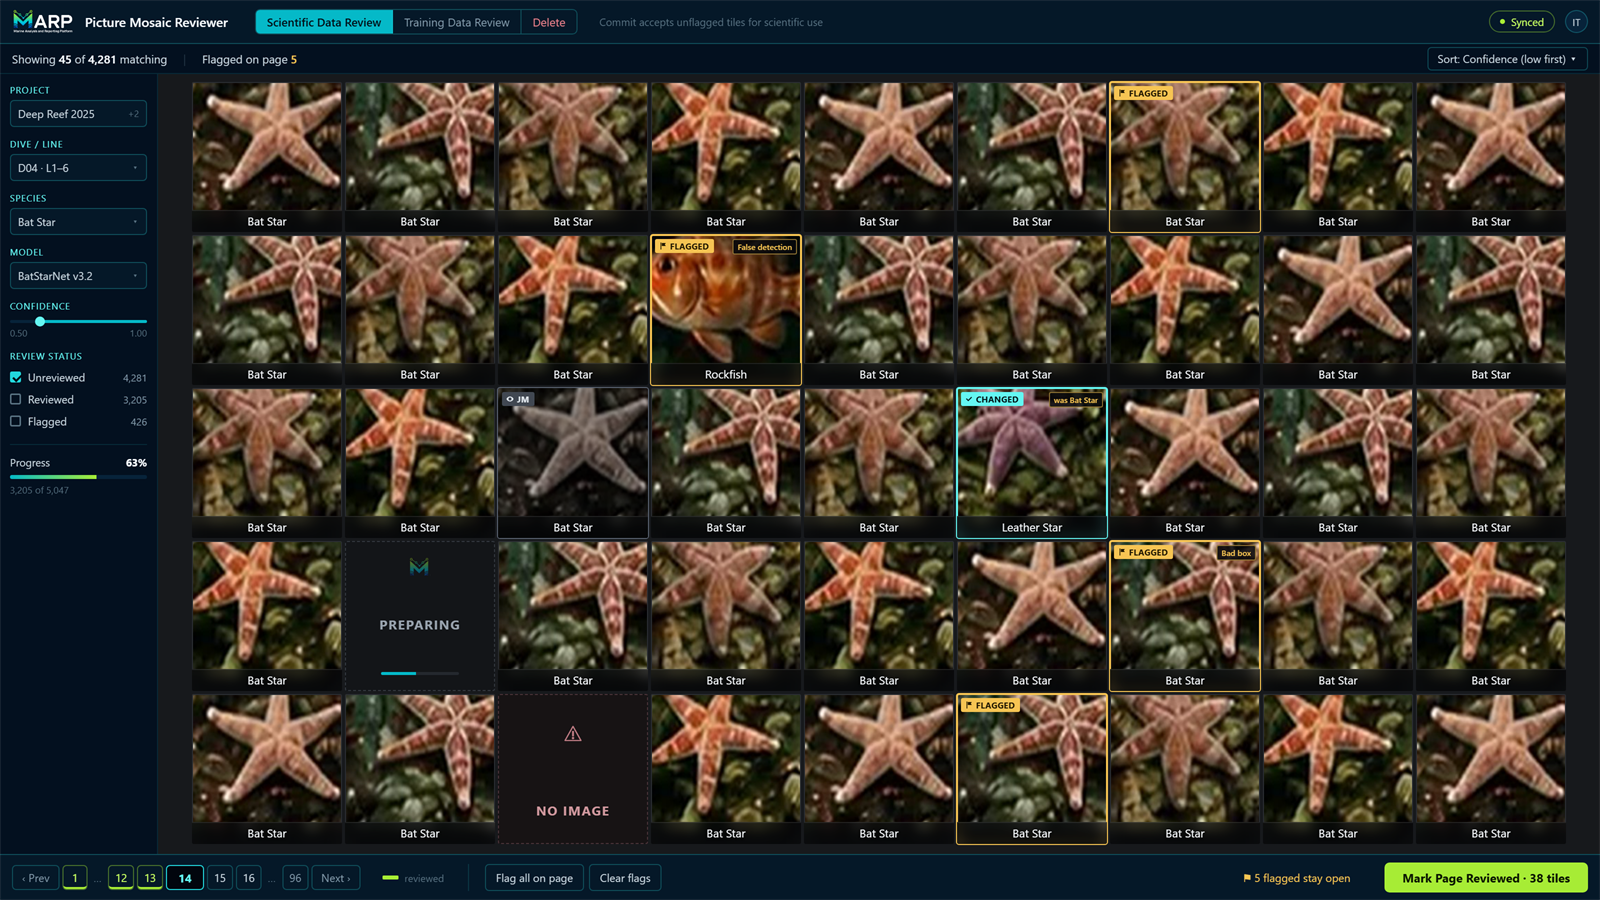
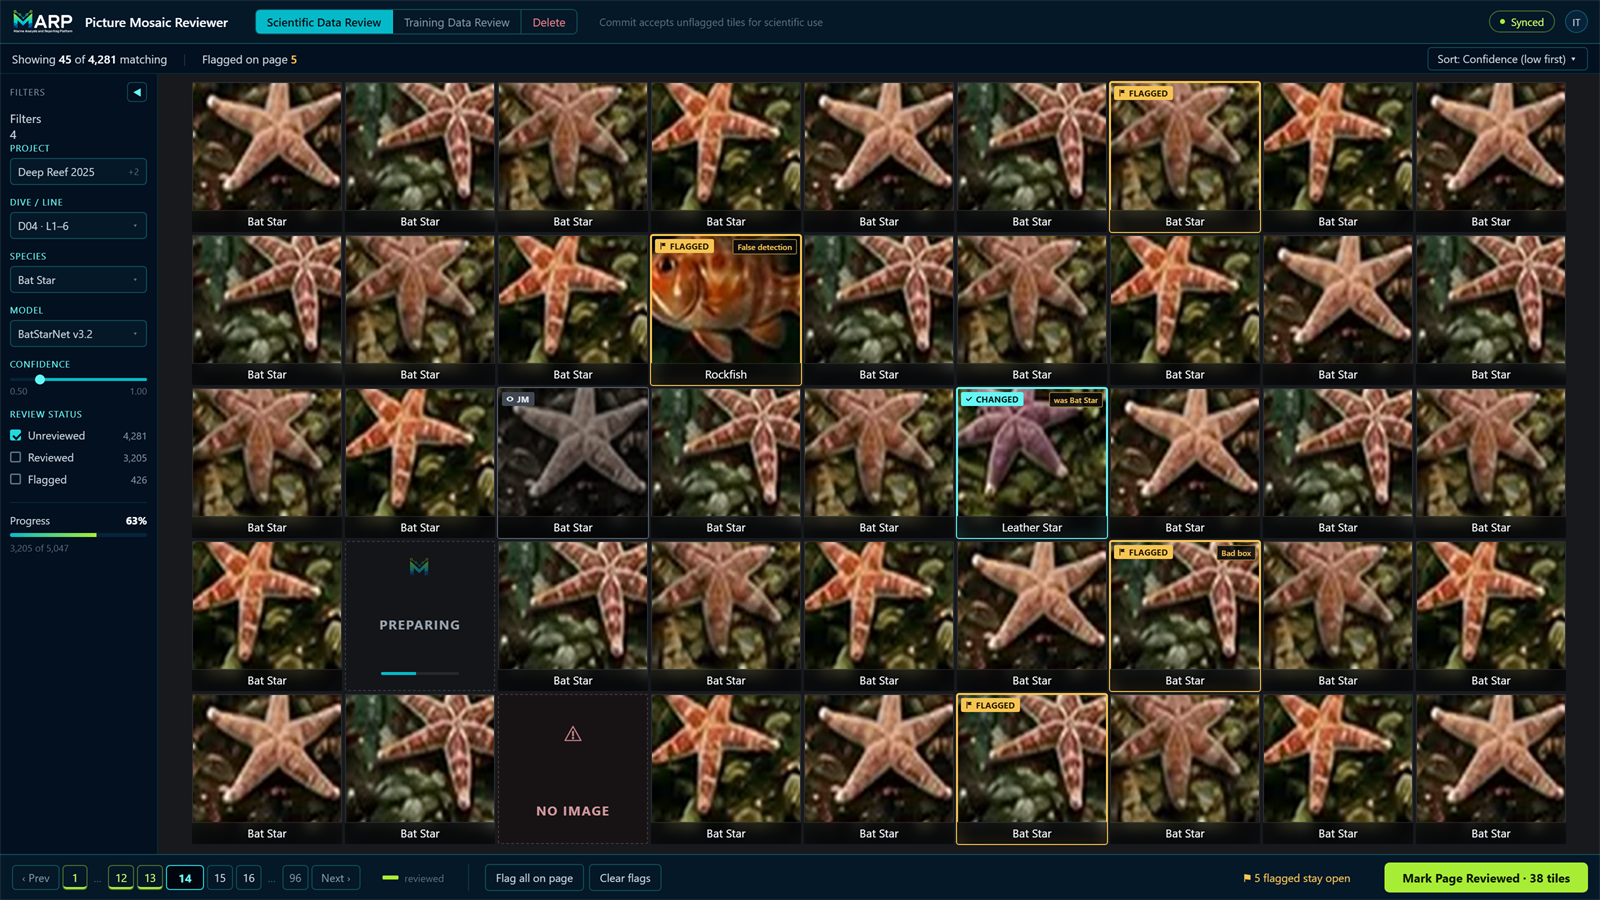
Add collapsible filter rail to mosaic mockup
- Rail collapses to a strip, gaining one tile column
- Active filter count stays visible while collapsed
- New filters-collapsed.png screenshot

Refs #68

Changed region(s): [[0.0, 0.0933, 0.0938, 0.6222], [0.0625, 0.0933, 0.0938, 0.1244]]

diff --git a/docs/design/mosaic-reviewer/html/scientific-review.html b/docs/design/mosaic-reviewer/html/scientific-review.html
@@ -41,6 +41,23 @@ header img{height:26px;width:auto}
 
 .body{display:grid;grid-template-columns:158px 1fr;min-height:0}
 aside{background:var(--navy-900);border-right:1px solid rgba(42,214,220,.13);padding:10px;overflow:hidden}
+.railhead{display:flex;align-items:center;justify-content:space-between;margin:-2px 0 8px}
+.railhead .t{font-size:9px;letter-spacing:.09em;text-transform:uppercase;color:var(--muted)}
+.railbtn{width:20px;height:20px;display:grid;place-items:center;border:1px solid var(--border);
+         border-radius:4px;color:var(--cyan-300);font-size:10px;line-height:1;cursor:pointer}
+
+/* Collapsed: the rail becomes a narrow strip. Active filters stay visible as a
+   count, so a reviewer can never scan a filtered mosaic believing it unfiltered. */
+body.rail-collapsed .body{grid-template-columns:34px 1fr}
+body.rail-collapsed aside{padding:8px 0;display:flex;flex-direction:column;align-items:center;gap:9px}
+body.rail-collapsed .railbody{display:none}
+body.rail-collapsed .railhead{display:block;margin:0}
+body.rail-collapsed .railhead .t{display:none}
+body.rail-collapsed .vlabel{writing-mode:vertical-rl;font-size:9px;letter-spacing:.11em;
+       text-transform:uppercase;color:var(--muted)}
+body.rail-collapsed .fcount{min-width:19px;height:19px;display:grid;place-items:center;
+       border-radius:10px;background:var(--cyan-500);color:#02121a;font-size:10px;font-weight:700}
+body.rail-collapsed .grid{grid-template-columns:repeat(10,150px)}
 .lbl{font-size:9px;letter-spacing:.08em;text-transform:uppercase;color:var(--cyan-300);margin:11px 0 4px}
 .lbl.first{margin-top:0}
 .sel{display:flex;align-items:center;justify-content:space-between;gap:4px;background:var(--navy-850);
@@ -138,13 +155,20 @@ input.pg{width:38px;padding:0;background:var(--navy-1000);border:1px solid var(-
   </header>
 
   <div class="sub">
-    <div>Showing <b>45</b> of <b>4,281</b> matching</div><div class="sep">|</div>
+    <div>Showing <b id="shown">45</b> of <b>4,281</b> matching</div><div class="sep">|</div>
     <div>Flagged on page <b style="color:#f6c453">5</b></div>
     <div class="sortbox">Sort: Confidence (low first) &#9662;</div>
   </div>
 
   <div class="body">
     <aside>
+      <div class="railhead">
+        <span class="t">Filters</span>
+        <span class="railbtn" id="railbtn" title="Collapse filters">&#9664;</span>
+      </div>
+      <div class="vlabel">Filters</div>
+      <div class="fcount">4</div>
+      <div class="railbody">
       <div class="lbl first">Project</div>
       <div class="sel"><span>Deep Reef 2025</span><span>+2</span></div>
       <div class="lbl">Dive / Line</div>
@@ -166,6 +190,7 @@ input.pg{width:38px;padding:0;background:var(--navy-1000);border:1px solid var(-
         <div class="bar"><i></i></div>
         <div class="small">3,205 of 5,047</div>
       </div>
+      </div>
     </aside>
 
     <main><div class="grid" id="g"></div></main>
@@ -179,7 +204,7 @@ input.pg{width:38px;padding:0;background:var(--navy-1000);border:1px solid var(-
       <div class="btn">Clear flags</div>
     </div>
     <div class="count">&#9873; 5 flagged stay open</div>
-    <button class="commit">Mark Page Reviewed &middot; 38 tiles</button>
+    <button class="commit" id="commit">Mark Page Reviewed &middot; 38 tiles</button>
   </footer>
 </div>
 
@@ -198,8 +223,13 @@ var special = {
   38:{na:1},
   41:{n:'Bat Star', st:'flag', badge:'FLAGGED'}
 };
+/* ?rail=collapsed renders the collapsed state, which gains a whole column */
+var COLLAPSED = /rail=collapsed/.test(location.search);
+if(COLLAPSED) document.body.className = 'rail-collapsed';
+var TILES = COLLAPSED ? 50 : 45;
+
 var RESERVED=[8,17], out=[];
-for(var k=0;k<45;k++){
+for(var k=0;k<TILES;k++){
   var t = special[k] || {};
   if(t.ph){ out.push('<div class="tile ph"><img src="assets/marp-mark.png" alt=""><div class="t">PREPARING</div><div class="phbar"><i></i></div></div>'); continue; }
   if(t.na){ out.push('<div class="tile na"><div style="font-size:20px;color:#c07d85">&#9888;</div><div class="t">NO IMAGE</div></div>'); continue; }
@@ -249,4 +279,10 @@ function pager(cur, total, done, span){
 }
 var DONE=[1,2,3,4,5,6,7,8,9,10,11,12,13];
 document.getElementById('pager').innerHTML = pager(14, 96, DONE);
+
+document.getElementById('shown').textContent = TILES;
+document.getElementById('commit').innerHTML = 'Mark Page Reviewed &middot; ' + (TILES-7) + ' tiles';
+document.getElementById('railbtn').addEventListener('click', function(){
+  document.body.classList.toggle('rail-collapsed');
+});
 </script>
